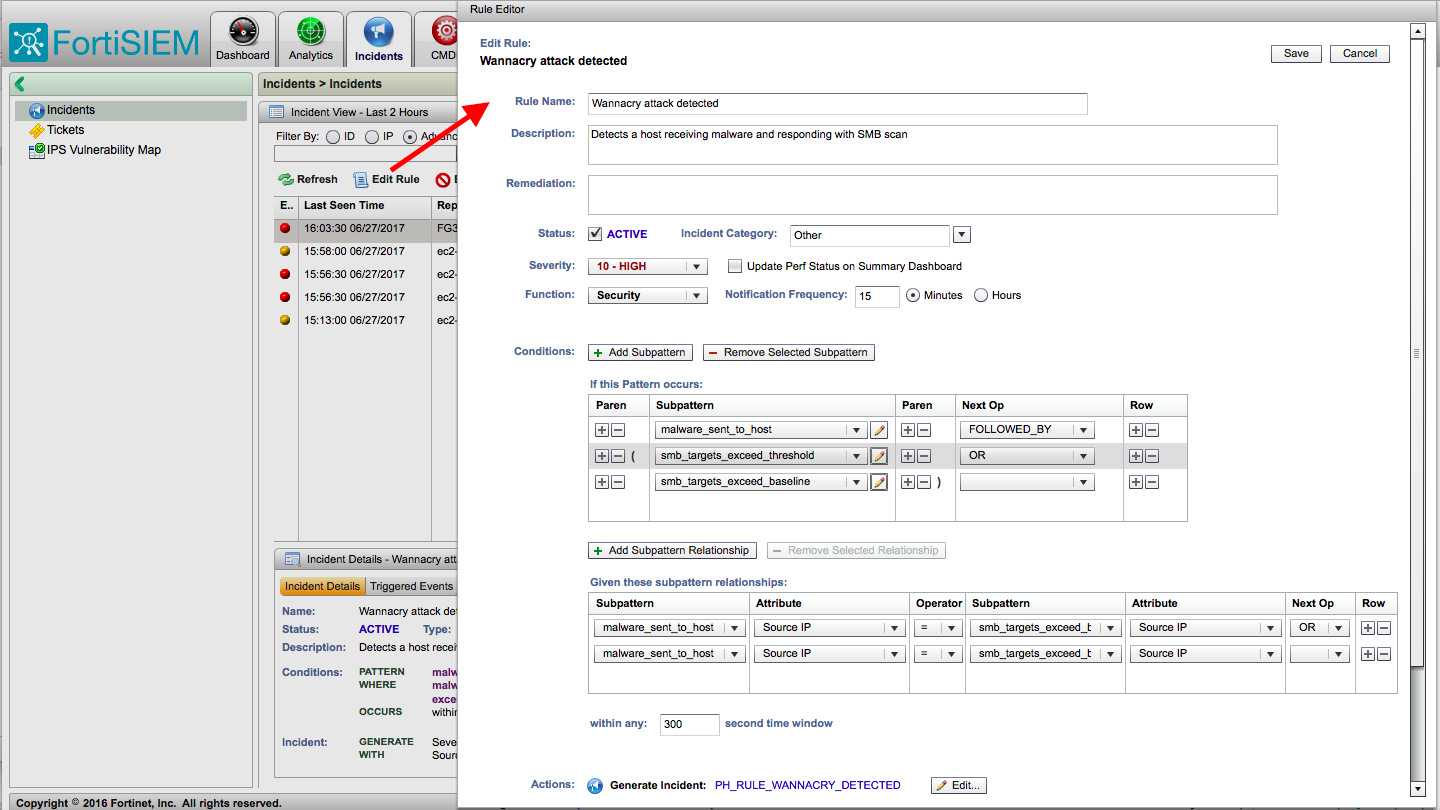
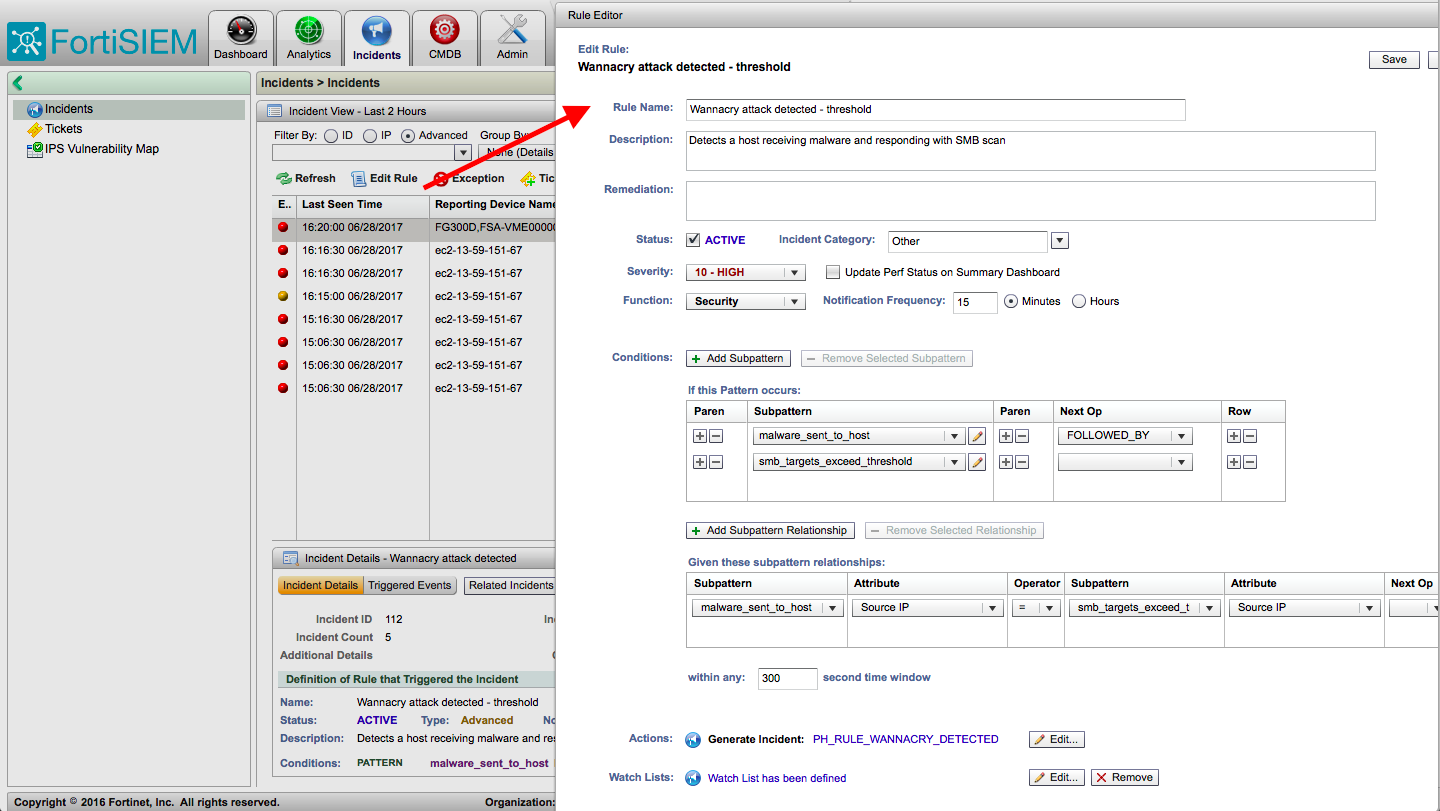
documentation update

Changed region(s): [[0.0, 0.0, 1.0, 1.0], [0.7188, 0.8951, 0.75, 0.9259]]

diff --git a/doc/use.html b/doc/use.html
@@ -41,9 +41,9 @@
 			</tr>
 			<tr>
 				<td colspan="3">
-					<p>Recently Wannacry ransomware has taken much attention in the news. It has disrupted healthcare services in the UK, disabled ATM's, railway control systems and public display screens.</p>
-					<p>What was different this time? For the first time ever ransomware got delivered as advanced, peristent threat which means attacker silently penetrated the network using Double Pulsar backdoor leaked from NSA, and only delivered ransomware payload 2 weeks later. Moreover the original infection mechanism was propagaing without uer intervention (worm style) making original infection paricularly quick. This is also the reason why, despite high profile of the attack, we still do not know attack vector behind it.</p>
-					<p>Note that the vulnerability used by attacker was not zero day. Despite OS Vendors efforts to release fix early, there always will be some systems which cannot be patched on time either because it would break application or because OS management was skipped in product design phase (IoT).</p>
+					<p>Recently Wannacry ransomware has taken much attention in the news. It has disrupted healthcare services in the UK, disabled ATM's, railway control systems and public display screens. Now similar havoc is spread by Petya.A leveraging similar mechanisms.</p>
+					<p>How is that different from ransomware of yesterday? For the first time ever ransomware got delivered as advanced peristent threat, which means attacker silently penetrated the network using Double Pulsar backdoor leaked from NSA, and only delivered ransomware payload 2 weeks later. Moreover the original infection mechanism was propagaing without user intervention (worm style) making original infection paricularly quick. This is also the reason why, despite high profile of the attack, we still do not know original attack vector behind it.</p>
+					<p>Note that the vulnerability used by attacker was not zero day. Despite OS vendor's efforts to release fix early, there always will be some systems which cannot be patched on time, either because it would break application, or because OS management was skipped in product design phase (IoT).</p>
 				</td>
 			</tr>
 			<tr>
@@ -59,7 +59,7 @@
 							<li>99,5% malware is unique to organization under attack</li>
 						</ul>
 					</p>
-					<p>On our simulated network there is FortiSanbox and FortiGate installed stopping all known threats on the spot and running analysis on the unknown ones. Sandboxing time is counted in minutes which means infections can be contained quickly across all organization and attack vectors but they cannot be ruled out.</p>
+					<p>On our simulated network there is FortiSanbox and FortiGate installed stopping all known threats on the spot and running analysis on the unknown ones. Sandboxing time is counted in minutes which means infections can be contained quickly across all organization and attack vectors but they cannot be ruled out (if the first download channel is real time like web, skype, etc the infected file will get through).</p>
 				</td>
 				<td>
 					<a href="img/incident_detected.png"><img src="img/thumbnails/incident_detected.png"/></a>
@@ -73,7 +73,7 @@
 					<p>As you san see incident is detected, let us have a look on the correlation logic behind and why does it take SIEM to find what has happened.</p>
 					<p>The rule looks for two triggers happening in sequence, within 300 seconds time window AND relating to the same source IP address. The security devices firing those triggers may and typically will be distinct. Big chunk of SIEM value is normalizing events coming form different sources so that they can be compared and observed together.</p>
 					<p>In our demo scenario the first trigger was fired by logs from FortiSandbox which, upon analysis, found one payload downloaded over the web by one of the hosts to be high risk.</p>
-					<p>The second one is having two alternate implementations, either of them is sufficient to generate incident. The latter is SMB traffic from host flowing to larger than usual numer of distinct destination. Traffic baseline is used for comparison. In our environment we do not have real devices and hence traffic baseline cannot be generated. For this reason simpler alternative is provided comparing amount of distinct SMB traffic targets to a static threshold. We will discuss all of them momentarily.</p>
+					<p>The second one detects SMB traffic from host flowing to larger than usual numer of distinct destinations.</p>
 				</td>
 				<td><a href="img/rule_details.png"><img src="img/thumbnails/rule_details.png"/></a>
 				</td>
@@ -92,26 +92,36 @@
 			</tr>
 			<tr>
 				<td>
-					<p>Click on a pencil icon next to <i>smb_targets_exceed_baseline</i> trigger.</p>
-					<p>Talk through.</p>
-					<p>Click cancel.</p>
-				</td>
-				<td>
-					<p>In this formula we leverage traffic baseline collected weekly for every source IP to determine of current number of distinct SMB target addresses exceeds hourly average number of distinct flow targets by 3 standard deviations or more. In statistical language this means significant change in behaviour vs baseline.</p>
-				</td>
-				<td><a href="img/baseline_trigger.png"><img src="img/thumbnails/baseline_trigger.png"/>
-				</td>
-			</tr>
-			<tr>
-				<td>
 					<p>Click on a pencil icon next to <i>smb_targets_exceed_threshold</i> trigger.</p>
 					<p>Talk through.</p>
 					<p>Click cancel.</p>
 				</td>
 				<td>
-					<p>In our environment we use log replay and the IP under attack does not really exist, hence baselining it is not possible. Same would happen if the IP address was new in the environment. For this reason I have created alternate condition comparing number of distinct destinations of SMB communication to static threshold of 10.</p>
+					<p>Here built in functions are used to count distinct destinations and compare them against static threshold. Alternative to this approach is comparing against straffic baseline which we are going to see next. This type of rule is still useful to detect incidents against new hosts on the network which do not have baseline yet.</p>
 				</td>
 				<td><a href="img/threshold_trigger.png"><img src="img/thumbnails/threshold_trigger.png"/>
+				</td>
+			</tr>
+			<tr>
+				<td>
+					<p>Go to Analytics > Rules. Search for Wannacry. Select baseline variant. Click Edit.</p>
+				</td>
+				<td>
+				</td>
+				<td><a href="img/rule_search.png"><img src="img/thumbnails/rule_search.png"/>
+				</td>
+			</tr>
+			<tr>
+				<td>
+					<p>Click on a pencil icon next to <i>smb_targets_exceed_baseline</i> trigger.</p>
+					<p>Talk through.</p>
+					<p>Click cancel.</p>
+				</td>
+				<td>
+					<p>In this formula we compare against traffic baseline collected weekly for every source IP to determine of current number of distinct SMB target addresses exceeds hourly average number of distinct flow targets by 3 standard deviations or more. In statistical language this means significant change in behaviour vs baseline.</p>
+					<p>If the baseline is not defined, as it is the case in our lab the rule would cause division by zero and would fail silently without generating an incident. </p>
+				</td>
+				<td><a href="img/baseline_trigger.png"><img src="img/thumbnails/baseline_trigger.png"/>
 				</td>
 			</tr>
 			<tr>
